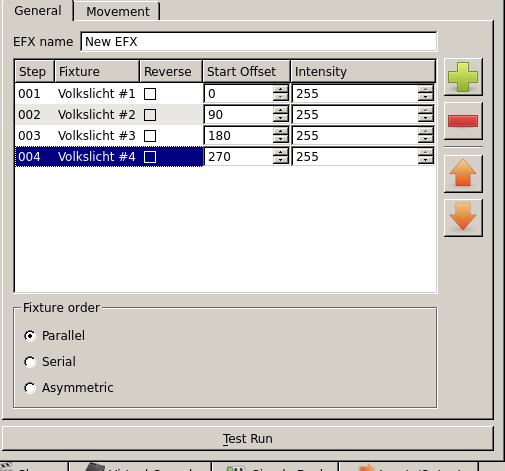
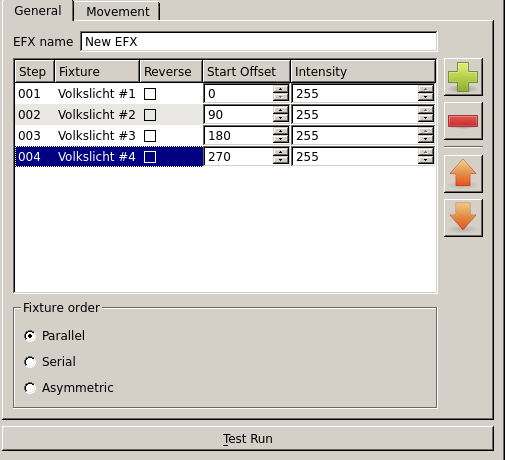
Fixed Show Manager vertical resize when adding a big number of tracks
Fixed Eurolite LED-Z-200-TCL RGB channels
Resized efx screenshots properly

Changed region(s): [[0.0297, 0.0, 0.9802, 0.5174], [0.0, 0.6087, 1.0, 1.0], [0.0297, 0.0, 0.1188, 0.0304]]

diff --git a/ui/src/multitrackview.cpp b/ui/src/multitrackview.cpp
@@ -70,9 +70,7 @@ MultiTrackView::MultiTrackView(QWidget *parent) :
     m_scene->addWidget(m_timeSlider);
 
     // draw vertical "splitter" between tracks and sequences
-    m_scene->addRect(TRACK_WIDTH - 3, 0, 3, m_scene->height(),
-                        QPen( QColor(150, 150, 150, 255) ),
-                        QBrush( QColor(190, 190, 190, 255) ) );
+    m_vdivider = NULL;
     // draw horizontal lines for tracks
     updateTracksDividers();
 
@@ -97,15 +95,24 @@ void MultiTrackView::updateTracksDividers()
             m_scene->removeItem(m_hdividers.at(c));
         m_hdividers.clear();
     }
+    if (m_vdivider != NULL)
+        m_scene->removeItem(m_vdivider);
+
     int ypos = 35 + TRACK_HEIGHT;
-    for (int j = 0; j < 5; j++)
+    int hDivNum = 6;
+    if (m_tracks.count() > 5)
+        hDivNum = m_tracks.count();
+    for (int j = 0; j < hDivNum; j++)
     {
-        QGraphicsItem *item = m_scene->addRect(0, ypos + (j * TRACK_HEIGHT),
-                                               m_scene->width(), 2,
+        QGraphicsItem *item = m_scene->addRect(TRACK_WIDTH, ypos + (j * TRACK_HEIGHT),
+                                               m_scene->width(), 1,
                                                QPen( QColor(150, 150, 150, 255) ),
                                                QBrush( QColor(190, 190, 190, 255) ) );
         m_hdividers.append(item);
     }
+    m_vdivider = m_scene->addRect(TRACK_WIDTH - 3, 0, 3, m_scene->height(),
+                        QPen( QColor(150, 150, 150, 255) ),
+                        QBrush( QColor(190, 190, 190, 255) ) );
 }
 
 void MultiTrackView::setViewSize(int width, int height)
@@ -118,14 +125,21 @@ void MultiTrackView::setViewSize(int width, int height)
 
 void MultiTrackView::updateViewSize()
 {
-    quint32 gWidth = 0;
+    quint32 gWidth = VIEW_DEFAULT_WIDTH;
+    quint32 gHeight = VIEW_DEFAULT_HEIGHT;
+
+    // find leftmost sequence item
     foreach (SequenceItem *item, m_sequences)
     {
         if (item->x() + item->getWidth() > gWidth)
             gWidth = item->x() + item->getWidth();
     }
-    if (gWidth > VIEW_DEFAULT_WIDTH)
-        setViewSize(gWidth + 1000, VIEW_DEFAULT_HEIGHT);
+
+    if ((m_tracks.count() * TRACK_HEIGHT) + HEADER_HEIGHT > VIEW_DEFAULT_HEIGHT)
+        gHeight = (m_tracks.count() * TRACK_HEIGHT) + HEADER_HEIGHT;
+
+    if (gWidth > VIEW_DEFAULT_WIDTH || gHeight > VIEW_DEFAULT_HEIGHT)
+        setViewSize(gWidth + 1000, gHeight);
 }
 
 void MultiTrackView::resetView()

diff --git a/ui/src/showmanager.cpp b/ui/src/showmanager.cpp
@@ -439,6 +439,7 @@ void ShowManager::slotAddTrack()
         m_addAudioAction->setEnabled(true);
         m_showview->activateTrack(newTrack);
         m_deleteAction->setEnabled(true);
+        m_showview->updateViewSize();
     }
 }
 
@@ -879,6 +880,7 @@ void ShowManager::updateMultiTrackView()
         m_showview->activateTrack(firstTrack);
         showSceneEditor(m_scene);
     }
+    m_showview->updateViewSize();
 }
 
 void ShowManager::showEvent(QShowEvent* ev)

diff --git a/ui/src/multitrackview.h b/ui/src/multitrackview.h
@@ -114,6 +114,7 @@ private:
     QSlider *m_timeSlider;
     SceneHeaderItem *m_header;
     SceneCursorItem *m_cursor;
+    QGraphicsItem * m_vdivider;
     QList <QGraphicsItem *> m_hdividers;
     QList <TrackItem *> m_tracks;
     QList <SequenceItem *> m_sequences;
